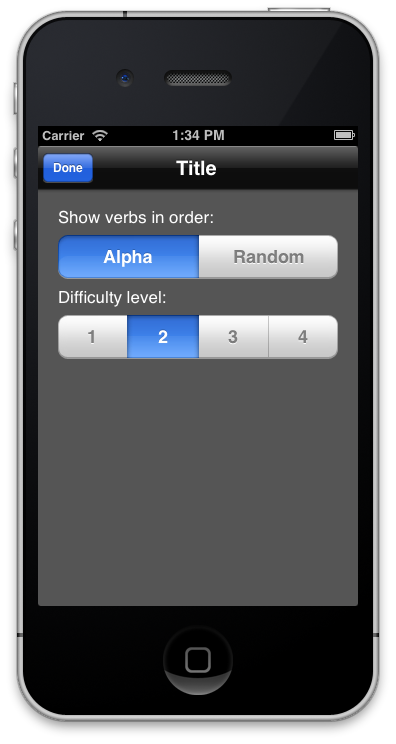
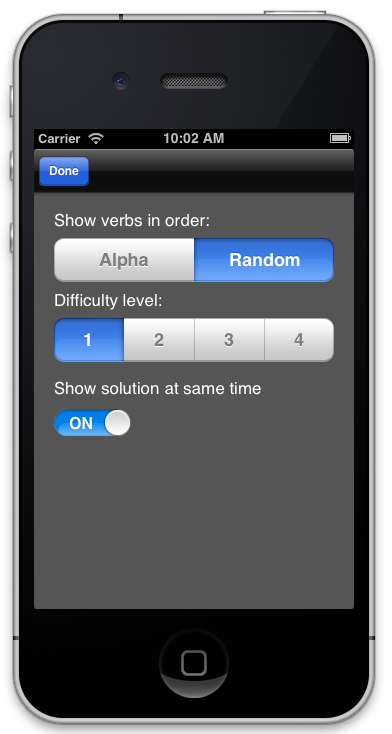
+info

diff --git a/README.md b/README.md
@@ -21,7 +21,7 @@ You can contact us at:
 * OR - v0.3 new preference panel (20/12/2012)
 * OR - v0.4 panel and shuffle option integration (20/12/2012)
 * RB - v0.5 experimental GAE API use (27/12/2012)
-
+* OR - v0.6 new sametime option (show solution at same time), new default app settings loading
 ## Screenshot
 ![Screenshot](https://raw.github.com/osrufung/irregularverbs/master/screenshot.png)
 ![Screenshot](https://raw.github.com/rbarbera/irregularverbs/master/preferences.png)
